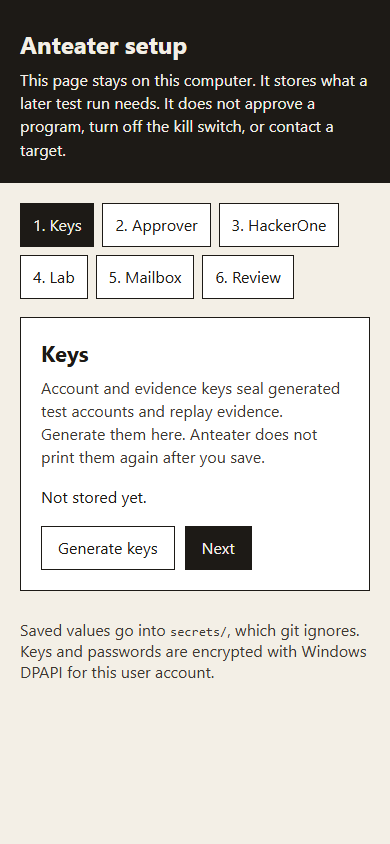
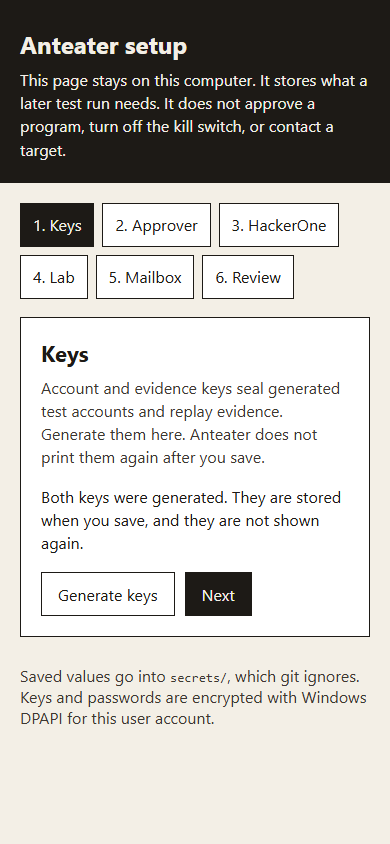
Replace the setup screenshots with a completed walkthrough.
The password hint now follows what was typed, and the review step says stored only after a save. The raw fixture-file images are removed.

Changed region(s): [[0.0308, 0.5853, 0.9538, 0.8626]]

diff --git a/apps/setup/index.html b/apps/setup/index.html
@@ -89,8 +89,9 @@
       errorBox.textContent = message || '';
     }
 
-    function field(label, id, value, type = 'text', hint = '') {
-      return `<label for="${id}">${label}</label>${hint ? `<p class="help">${hint}</p>` : ''}<input id="${id}" name="${id}" type="${type}" value="${escapeHtml(value)}" autocomplete="off">`;
+    function field(label, id, value, type = 'text', hint = '', savedFlag = '') {
+      const hintId = savedFlag ? ` id="${id}-hint" data-saved="${savedFlag}"` : '';
+      return `<label for="${id}">${label}</label>${hint ? `<p class="help"${hintId}>${hint}</p>` : ''}<input id="${id}" name="${id}" type="${type}" value="${escapeHtml(value)}" autocomplete="off">`;
     }
 
     function escapeHtml(value) {
@@ -137,7 +138,7 @@
           <h2>HackerOne</h2>
           <p class="help">Optional. The token is stored for a later intake command. This page does not call HackerOne.</p>
           ${field('Username', 'hackeroneUsername', state.hackeroneUsername)}
-          ${field('API token', 'hackeroneToken', '', 'password', saved(status?.hackeroneTokenSaved, state.hackeroneToken))}
+          ${field('API token', 'hackeroneToken', '', 'password', saved(status?.hackeroneTokenSaved, state.hackeroneToken), 'hackeroneTokenSaved')}
           <label class="check"><input id="clearHackeroneToken" type="checkbox" ${state.clearHackeroneToken ? 'checked' : ''}> Remove the stored token</label>
           <div class="actions">${nav()}</div>`;
       } else if (name === 'lab') {
@@ -153,7 +154,7 @@
           <p class="help">Optional. Use this for a test inbox the research profile names as MAILBOX_USERNAME and MAILBOX_PASSWORD. Leave every field blank to skip it.</p>
           ${field('IMAP host', 'mailboxHost', state.mailboxHost)}
           ${field('Username', 'mailboxUsername', state.mailboxUsername)}
-          ${field('Password', 'mailboxPassword', '', 'password', saved(status?.mailboxPasswordSaved, state.mailboxPassword))}
+          ${field('Password', 'mailboxPassword', '', 'password', saved(status?.mailboxPasswordSaved, state.mailboxPassword), 'mailboxPasswordSaved')}
           ${field('Email domain', 'mailboxDomain', state.mailboxDomain, 'text', 'Example: mail.example.test')}
           <label class="check"><input id="clearMailboxPassword" type="checkbox" ${state.clearMailboxPassword ? 'checked' : ''}> Remove the stored mailbox password</label>
           <div class="actions">${nav()}</div>`;
@@ -163,10 +164,10 @@
         panel.innerHTML = `
           <h2>Review and save</h2>
           <dl>
-            <dt>Keys</dt><dd>${status?.keysReady || state.accountKey ? 'Ready to store' : 'Not set'}</dd>
+            <dt>Keys</dt><dd>${state.accountKey ? 'Ready to store' : (status?.keysReady ? 'Stored' : 'Not set')}</dd>
             <dt>Approver</dt><dd>${escapeHtml(state.approver || status?.approver || 'Not set')}</dd>
             <dt>HackerOne user</dt><dd>${escapeHtml(state.hackeroneUsername || status?.hackeroneUsername || 'Not set')}</dd>
-            <dt>HackerOne token</dt><dd>${state.hackeroneToken || status?.hackeroneTokenSaved ? 'Stored, not shown' : 'Not set'}</dd>
+            <dt>HackerOne token</dt><dd>${state.clearHackeroneToken ? 'Will be removed' : (state.hackeroneToken ? 'Entered, not shown' : (status?.hackeroneTokenSaved ? 'Stored, not shown' : 'Not set'))}</dd>
             <dt>Lab hosts</dt><dd>${escapeHtml(state.labHosts || status?.labHosts || 'Not set')}</dd>
             <dt>Private lab</dt><dd>${state.allowPrivateLabTargets ? 'On for the listed hostnames' : 'Off'}</dd>
             <dt>Mailbox</dt><dd>${state.mailboxHost ? escapeHtml(state.mailboxHost) : (status?.mailboxHost || 'Not set')}</dd>
@@ -188,6 +189,16 @@ npm run worker -- --once</pre>
       document.querySelector('#next')?.addEventListener('click', () => move(1));
       document.querySelector('#back')?.addEventListener('click', () => move(-1));
       document.querySelector('#save')?.addEventListener('click', save);
+      for (const input of panel.querySelectorAll('input[type="password"]')) {
+        input.addEventListener('input', () => {
+          const hint = document.querySelector('#' + input.id + '-hint');
+          if (!hint) return;
+          const already = state.status?.[hint.dataset.saved];
+          hint.textContent = input.value
+            ? 'Entered on this page. It is stored when you save, and it is not shown again.'
+            : (already ? 'Already stored on this machine. Leave the field blank to keep it.' : 'Not stored yet.');
+        });
+      }
     }
 
     function nav() {

diff --git a/README.md b/README.md
@@ -28,7 +28,7 @@ The wizard encrypts the values with Windows DPAPI for the current user and write
 
 The screenshots use example text. The token is typed into a password field and is not shown again after save.
 
-![Keys step, with nothing stored yet](docs/images/setup-keys.png)
+![Keys step, after the keys are generated](docs/images/setup-keys.png)
 
 ![HackerOne step. The token is masked.](docs/images/setup-hackerone.png)
 
@@ -58,17 +58,7 @@ An aggressive run still needs `--snapshot-confirmed` and `--n8n-attested`, and t
 
 ## What a run writes
 
-There is no screen that shows a test while it runs. `npm run demo` is one fixture pass. It uses a temporary local database, records one synthetic observation for `https://api.example.test/`, and does not open a network connection. The log is JSON on the terminal. The readable result is markdown under `programs/fixture-company/`, which git ignores.
-
-![Fixture program record](docs/images/run-program.png)
-
-![Fixture observation. The note says no network request was performed.](docs/images/run-recon.png)
-
-![Completed fixture job](docs/images/run-history.png)
-
-![Fixture findings file, still empty](docs/images/run-findings.png)
-
-![Fixture hypothesis. The label is no_signal.](docs/images/run-hypotheses.png)
+There is no screen that shows a test while it runs. `npm run demo` prints a JSON log and writes markdown under `programs/`, which git ignores. A fixture pass records a synthetic observation and does not open a network connection.
 
 ## Bounty review inbox
 

diff --git a/docs/progress/2026-10-05.md b/docs/progress/2026-10-05.md
@@ -34,7 +34,7 @@ The phase exit is not met. No live program was fetched and no human approved thr
 
 ### 4. Fixture demo screens
 
-There is no live test screen. `npm run demo` finished one fixture job on temporary Postgres and wrote `programs/fixture-company/`. The observation note says no network request was performed. Screenshots of the remaining setup steps and those files are in the README.
+There is no live test screen. `npm run demo` finished one fixture job on temporary Postgres and wrote `programs/fixture-company/`. The raw file dumps were removed from the README. Setup screenshots show a completed example walkthrough.
 
 ## Open items / follow-ups
 
